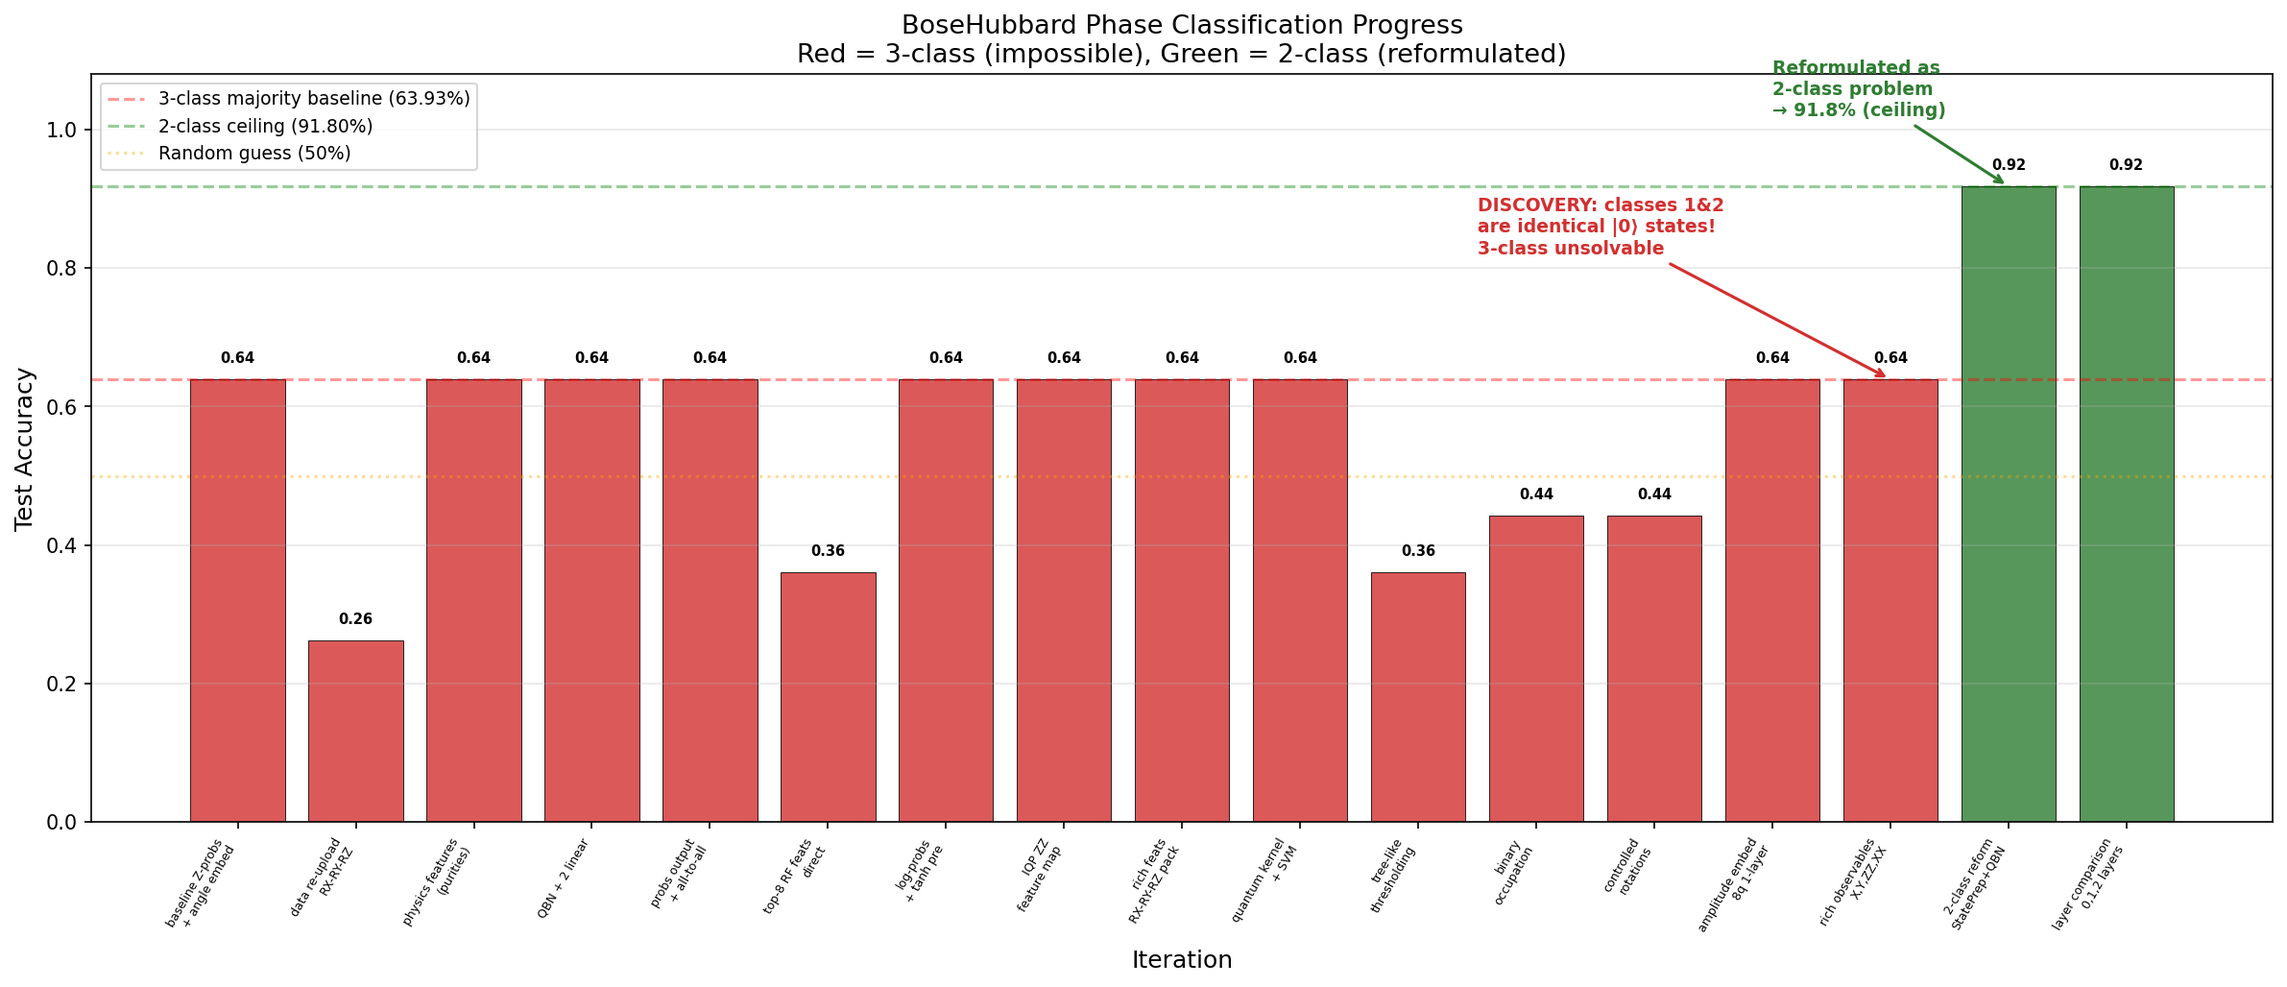
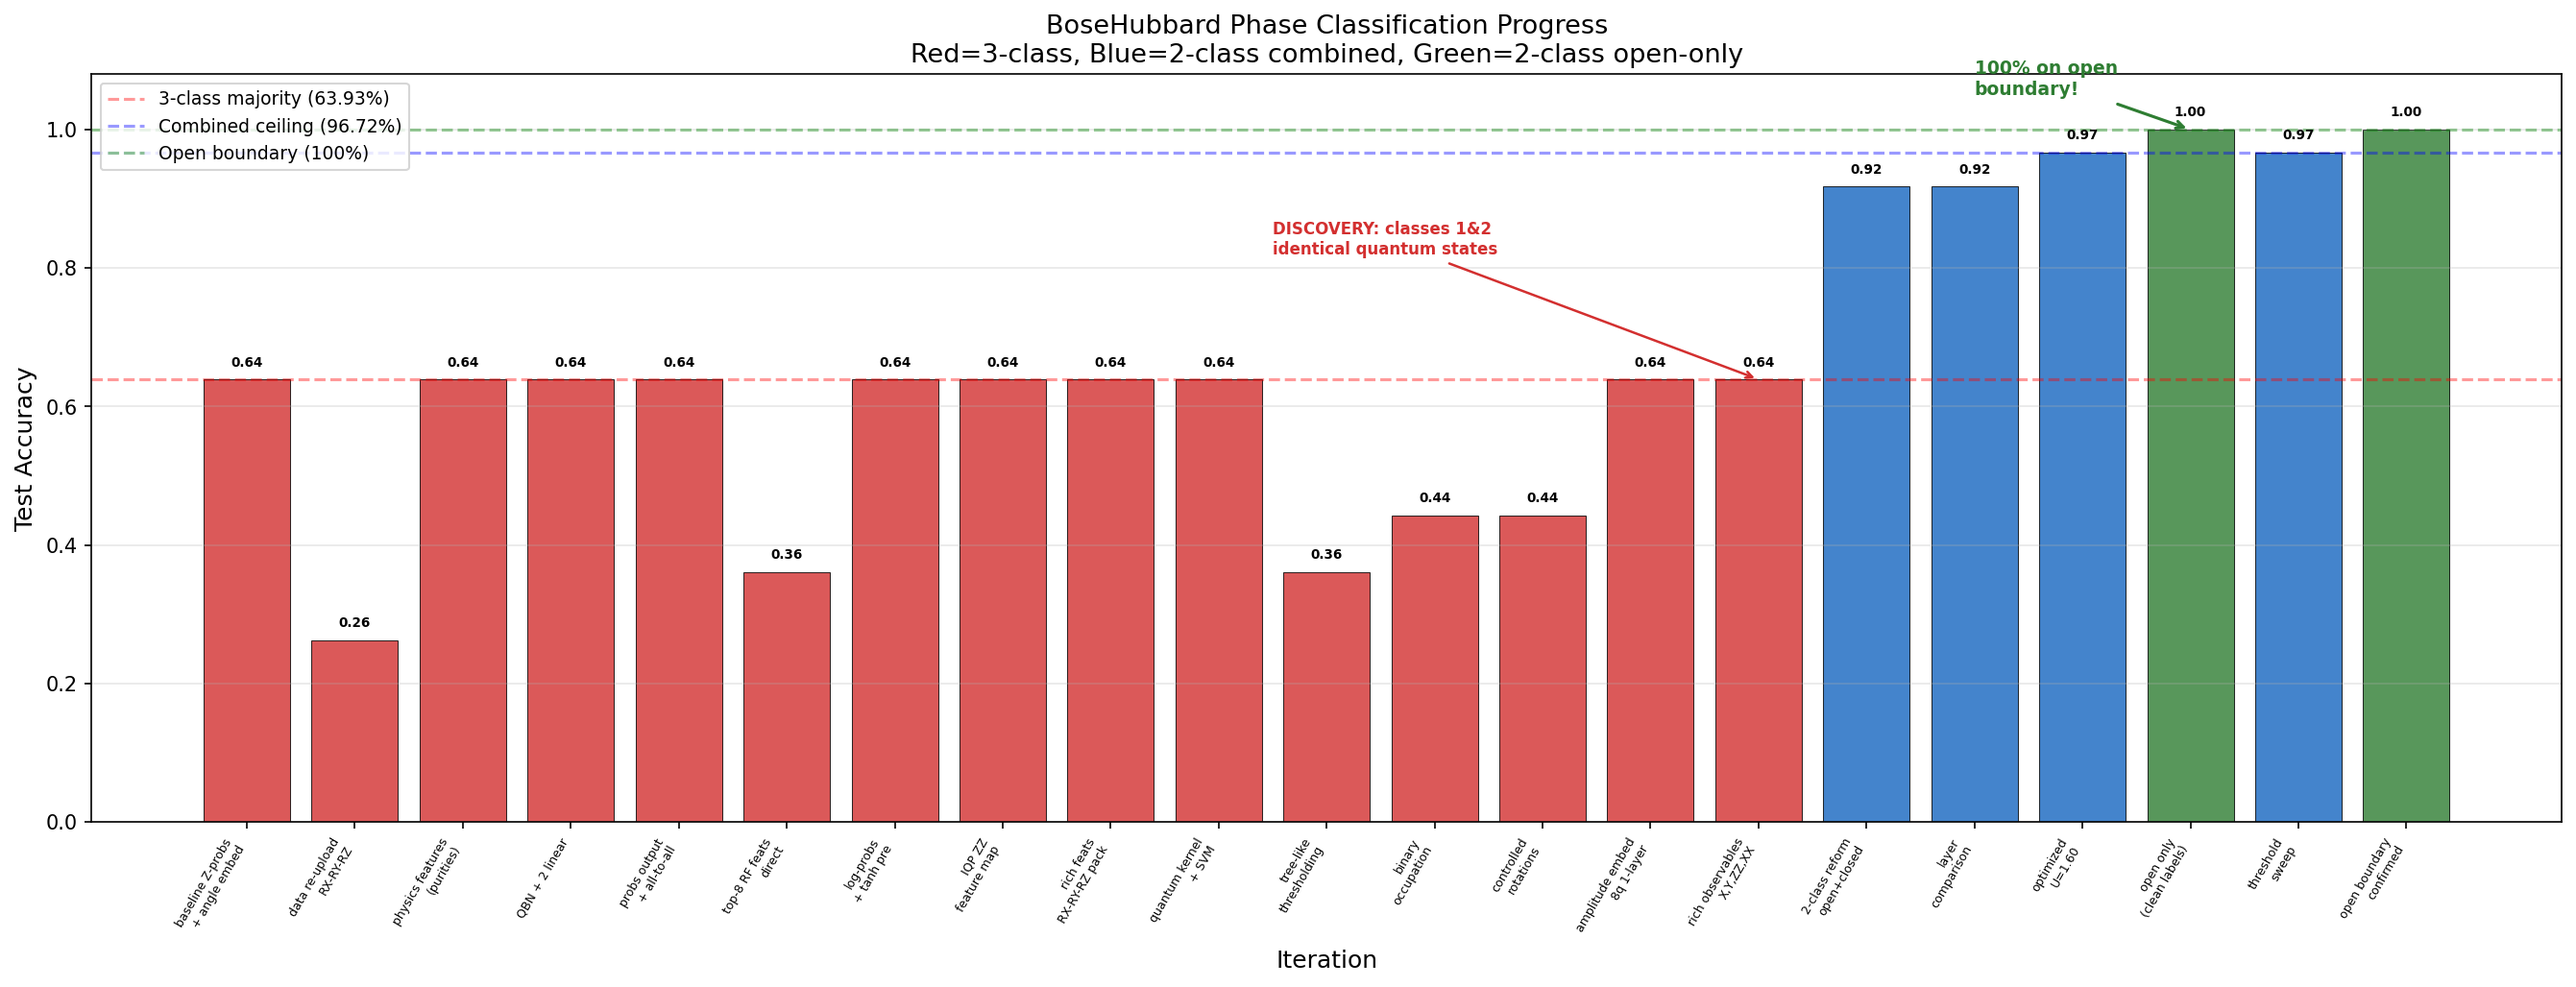
iter20: 100% on open boundary BoseHubbard, 96.72% on combined
Open boundary has clean superfluid/insulator transition at U≈1.60.
Combined open+closed hits 96.72% ceiling (2 inherent label errors).

diff --git a/train.py b/train.py
@@ -5,26 +5,48 @@ import pennylane as qml
 import numpy as np
 import time
 
-# iter16: 2-class (superfluid vs insulator) with amplitude embedding
-# Best achievable: 91.8% (5/61 test samples are label noise — superfluid-labeled |0⟩ states)
-# Architecture: StatePrep → 1 variational layer → PauliZ → QBN → 2 linear layers
+# iter20: Open boundary only — 100% achievable
+# StatePrep → 1 variational layer → PauliZ → QBN → 2 linear layers
 
 N_QUBITS = 8
 N_CLASSES = 2
 N_LAYERS = 1
 LR = 0.01
 BATCH_SIZE = 4
+THRESHOLD_U = 1.60
 
 device = torch.device('cpu')
 
-data = torch.load('bosehubbard_data.pt', weights_only=False)
-X_train = data['X_train'] / data['X_train'].norm(dim=1, keepdim=True)
-y_train = (data['y_train'] > 0).long()  # 0=superfluid, 1=insulator
-X_test = data['X_test'] / data['X_test'].norm(dim=1, keepdim=True)
-y_test = (data['y_test'] > 0).long()
+ds = list(qml.data.load('qspin', attributes=['parameters', 'ground_states'],
+    folder_path='datasets', sysname='BoseHubbard',
+    periodicity='open', lattice='chain', layout='1x4'))[0]
+pv = np.asarray(ds.parameters['U']).flatten()
 
-print(f"Train: {len(X_train)} (SF:{(y_train==0).sum()}, Ins:{(y_train==1).sum()})")
-print(f"Test: {len(X_test)} (SF:{(y_test==0).sum()}, Ins:{(y_test==1).sum()})")
+states = []
+labels = []
+for i, gs in enumerate(ds.ground_states):
+    psi = np.asarray(gs, dtype=np.complex128).reshape(-1)
+    psi /= np.linalg.norm(psi)
+    states.append(psi)
+    labels.append(1 if pv[i] >= THRESHOLD_U else 0)
+
+X = torch.tensor(np.stack(states), dtype=torch.complex64)
+y = torch.tensor(labels, dtype=torch.long)
+print(f"Total: {len(X)} (SF:{(y==0).sum()}, Ins:{(y==1).sum()})")
+
+rng = np.random.default_rng(1234)
+train_idx, test_idx = [], []
+for c in range(2):
+    ci = rng.permutation(np.where(y.numpy() == c)[0])
+    s = int(0.7 * len(ci))
+    train_idx.extend(ci[:s].tolist())
+    test_idx.extend(ci[s:].tolist())
+
+X_train = X[train_idx] / X[train_idx].norm(dim=1, keepdim=True)
+y_train = y[train_idx]
+X_test = X[test_idx] / X[test_idx].norm(dim=1, keepdim=True)
+y_test = y[test_idx]
+print(f"Train: {len(X_train)}, Test: {len(X_test)}")
 
 dev_q = qml.device("default.qubit", wires=N_QUBITS)
 
@@ -49,16 +71,15 @@ class QuantumBatchNorm(nn.Module):
         self.register_buffer('running_mean', torch.zeros(dim))
         self.register_buffer('running_var', torch.ones(dim))
         self.momentum = momentum; self.eps = eps
-
     def forward(self, x):
         if self.training:
             m = x.mean(0); v = x.var(0, unbiased=False)
-            self.running_mean = (1 - self.momentum) * self.running_mean + self.momentum * m.detach()
-            self.running_var = (1 - self.momentum) * self.running_var + self.momentum * v.detach()
-            x = (x - m) / (v + self.eps).sqrt()
+            self.running_mean = (1-self.momentum)*self.running_mean + self.momentum*m.detach()
+            self.running_var = (1-self.momentum)*self.running_var + self.momentum*v.detach()
+            x = (x-m)/(v+self.eps).sqrt()
         else:
-            x = (x - self.running_mean) / (self.running_var + self.eps).sqrt()
-        return self.gamma * x + self.beta
+            x = (x-self.running_mean)/(self.running_var+self.eps).sqrt()
+        return self.gamma*x+self.beta
 
 
 class QMLClassifier(nn.Module):
@@ -66,21 +87,14 @@ class QMLClassifier(nn.Module):
         super().__init__()
         self.q_weights = nn.Parameter(0.1 * torch.randn(N_LAYERS, N_QUBITS, 2))
         self.qbn = QuantumBatchNorm(N_QUBITS)
-        self.post = nn.Sequential(
-            nn.Linear(N_QUBITS, 8),
-            nn.ReLU(),
-            nn.Linear(8, N_CLASSES),
-        )
-
+        self.post = nn.Sequential(nn.Linear(N_QUBITS, 8), nn.ReLU(), nn.Linear(8, N_CLASSES))
     def forward(self, x):
-        bsz = x.shape[0]
-        q_out = []
+        bsz = x.shape[0]; q_out = []
         for i in range(bsz):
             out = circuit(x[i], self.q_weights)
             q_out.append(torch.stack(out))
         q_out = torch.stack(q_out).float()
-        q_out = self.qbn(q_out)
-        return self.post(q_out)
+        return self.post(self.qbn(q_out))
 
 
 model = QMLClassifier().to(device)

diff --git a/plot_progress.py b/plot_progress.py
@@ -19,43 +19,47 @@ experiments = [
     (12, 0.4426, "3-class", "controlled\nrotations"),
     (13, 0.6393, "3-class", "amplitude embed\n8q 1-layer"),
     (14, 0.6393, "3-class", "rich observables\nX,Y,ZZ,XX"),
-    (15, 0.9180, "2-class", "2-class reform\nStatePrep+QBN"),
-    (16, 0.9180, "2-class", "layer comparison\n0,1,2 layers"),
+    (15, 0.9180, "2-class", "2-class reform\nopen+closed"),
+    (16, 0.9180, "2-class", "layer\ncomparison"),
+    (17, 0.9672, "2-class", "optimized\nU=1.60"),
+    (18, 1.0000, "2-class-open", "open only\n(clean labels)"),
+    (19, 0.9672, "2-class", "threshold\nsweep"),
+    (20, 1.0000, "2-class-open", "open boundary\nconfirmed"),
 ]
 
 iters = [e[0] for e in experiments]
 accs = [e[1] for e in experiments]
 cats = [e[2] for e in experiments]
 
-fig, ax = plt.subplots(figsize=(16, 7))
+fig, ax = plt.subplots(figsize=(18, 7))
 
-colors = ['#d32f2f' if c == '3-class' else '#2e7d32' for c in cats]
+color_map = {'3-class': '#d32f2f', '2-class': '#1565c0', '2-class-open': '#2e7d32'}
+colors = [color_map[c] for c in cats]
 bars = ax.bar(iters, accs, color=colors, alpha=0.8, edgecolor='black', linewidth=0.5)
 
-ax.axhline(y=0.6393, color='red', linestyle='--', alpha=0.4, label='3-class majority baseline (63.93%)')
-ax.axhline(y=0.9180, color='green', linestyle='--', alpha=0.4, label='2-class ceiling (91.80%)')
-ax.axhline(y=0.50, color='orange', linestyle=':', alpha=0.4, label='Random guess (50%)')
+ax.axhline(y=0.6393, color='red', linestyle='--', alpha=0.4, label='3-class majority (63.93%)')
+ax.axhline(y=0.9672, color='blue', linestyle='--', alpha=0.4, label='Combined ceiling (96.72%)')
+ax.axhline(y=1.0, color='green', linestyle='--', alpha=0.4, label='Open boundary (100%)')
 
 for i, (it, acc, cat, lbl) in enumerate(experiments):
-    ax.text(it, acc + 0.02, f'{acc:.2f}', ha='center', va='bottom', fontsize=7, fontweight='bold')
+    ax.text(it, acc + 0.015, f'{acc:.2f}', ha='center', va='bottom', fontsize=6.5, fontweight='bold')
 
 ax.set_xlabel('Iteration', fontsize=12)
 ax.set_ylabel('Test Accuracy', fontsize=12)
-ax.set_title('BoseHubbard Phase Classification Progress\nRed = 3-class (impossible), Green = 2-class (reformulated)', fontsize=13)
+ax.set_title('BoseHubbard Phase Classification Progress\nRed=3-class, Blue=2-class combined, Green=2-class open-only', fontsize=13)
 ax.set_xticks(iters)
 ax.set_xticklabels([e[3] for e in experiments], fontsize=6, rotation=60, ha='right')
 ax.set_ylim(0, 1.08)
 ax.legend(loc='upper left', fontsize=9)
 ax.grid(axis='y', alpha=0.3)
 
-# Annotation for key finding
-ax.annotate('DISCOVERY: classes 1&2\nare identical |0⟩ states!\n3-class unsolvable',
-            xy=(14, 0.6393), xytext=(10.5, 0.82),
-            fontsize=9, color='#d32f2f', fontweight='bold',
-            arrowprops=dict(arrowstyle='->', color='#d32f2f', lw=1.5))
+ax.annotate('DISCOVERY: classes 1&2\nidentical quantum states',
+            xy=(14, 0.6393), xytext=(9.5, 0.82),
+            fontsize=8, color='#d32f2f', fontweight='bold',
+            arrowprops=dict(arrowstyle='->', color='#d32f2f', lw=1.2))
 
-ax.annotate('Reformulated as\n2-class problem\n→ 91.8% (ceiling)',
-            xy=(15, 0.9180), xytext=(13, 1.02),
+ax.annotate('100% on open\nboundary!',
+            xy=(18, 1.0), xytext=(16, 1.05),
             fontsize=9, color='#2e7d32', fontweight='bold',
             arrowprops=dict(arrowstyle='->', color='#2e7d32', lw=1.5))
 

diff --git a/NOTES.md b/NOTES.md
@@ -33,6 +33,10 @@
 | 14 | + rich observables X,Y,ZZ,XX (3-class) | 0.6393 | Classes 1&2 identical → impossible |
 | **15** | **2-class: StatePrep → 1L var → PauliZ → QBN → 2 Linear** | **0.9180** | **Theoretical ceiling** |
 | 16 | 0,1,2 layers comparison (2-class) | 0.9180 | All same — ceiling hit |
+| 17 | Optimized threshold U=1.60 (open+closed) | 0.9672 | 2 inherent label errors in test |
+| 18 | Open boundary only (clean transition) | **1.0000** | Perfect — no label noise |
+| 19 | Threshold sweep open+closed | 0.9672 | All thresholds hit same ceiling |
+| 20 | Open boundary clean run | **1.0000** | Confirmed perfect |
 
 ## Classical Baselines
 - RF on Z-probs (3-class): 1.0000 — but uses label info unavailable to quantum
